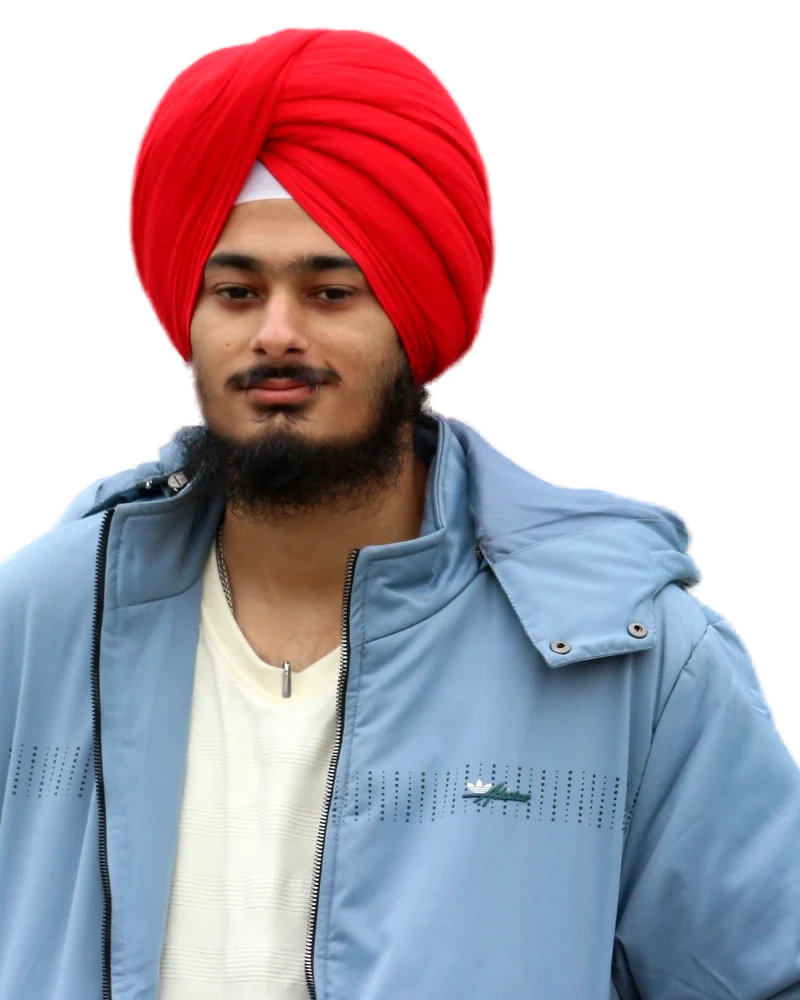
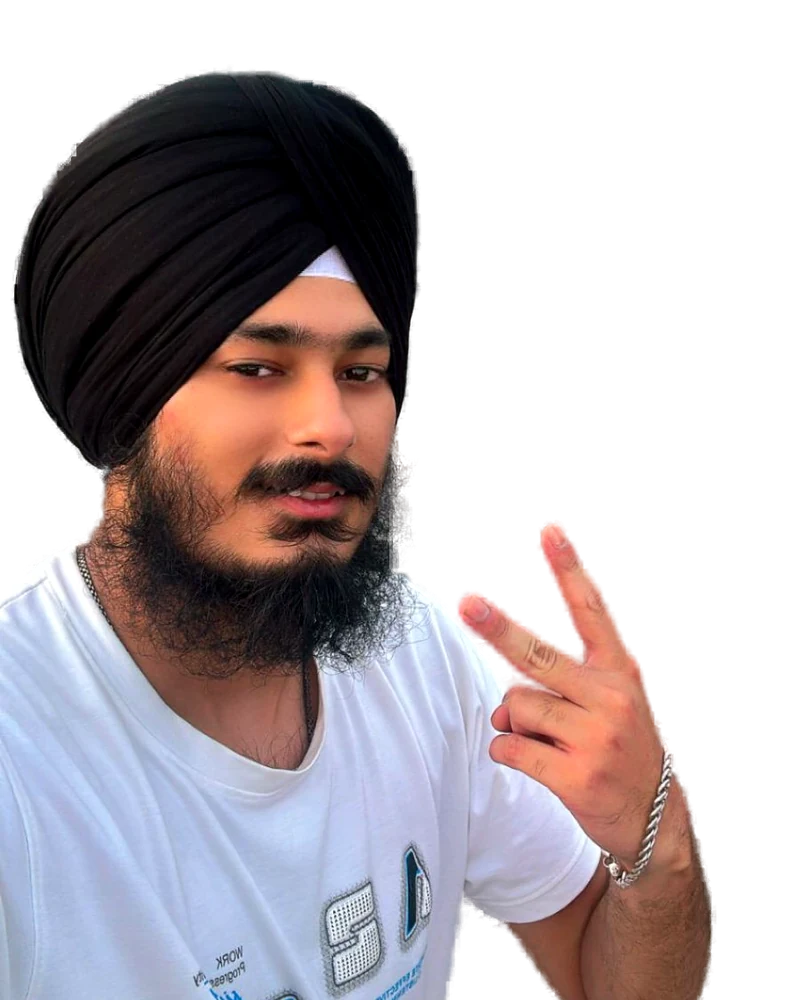
Hero portrait: black-turban selfie with clean AI cutout; warm glow so dark turban reads on black

diff --git a/src/v2/v2.css b/src/v2/v2.css
@@ -1157,3 +1157,28 @@ html.v2-has-cursor .v2 * {
 .v2-ascii canvas {
   cursor: pointer;
 }
+
+/* soft warm glow behind the portrait so a dark turban still reads against black */
+.v2-ascii::before {
+  content: "";
+  position: absolute;
+  left: 50%;
+  top: 46%;
+  width: 78%;
+  aspect-ratio: 1;
+  transform: translate(-50%, -50%);
+  border-radius: 50%;
+  background: radial-gradient(
+    circle,
+    rgba(255, 106, 43, 0.22) 0%,
+    rgba(255, 106, 43, 0.09) 38%,
+    transparent 70%
+  );
+  filter: blur(10px);
+  pointer-events: none;
+  z-index: 0;
+}
+.v2-ascii canvas {
+  position: relative;
+  z-index: 1;
+}
